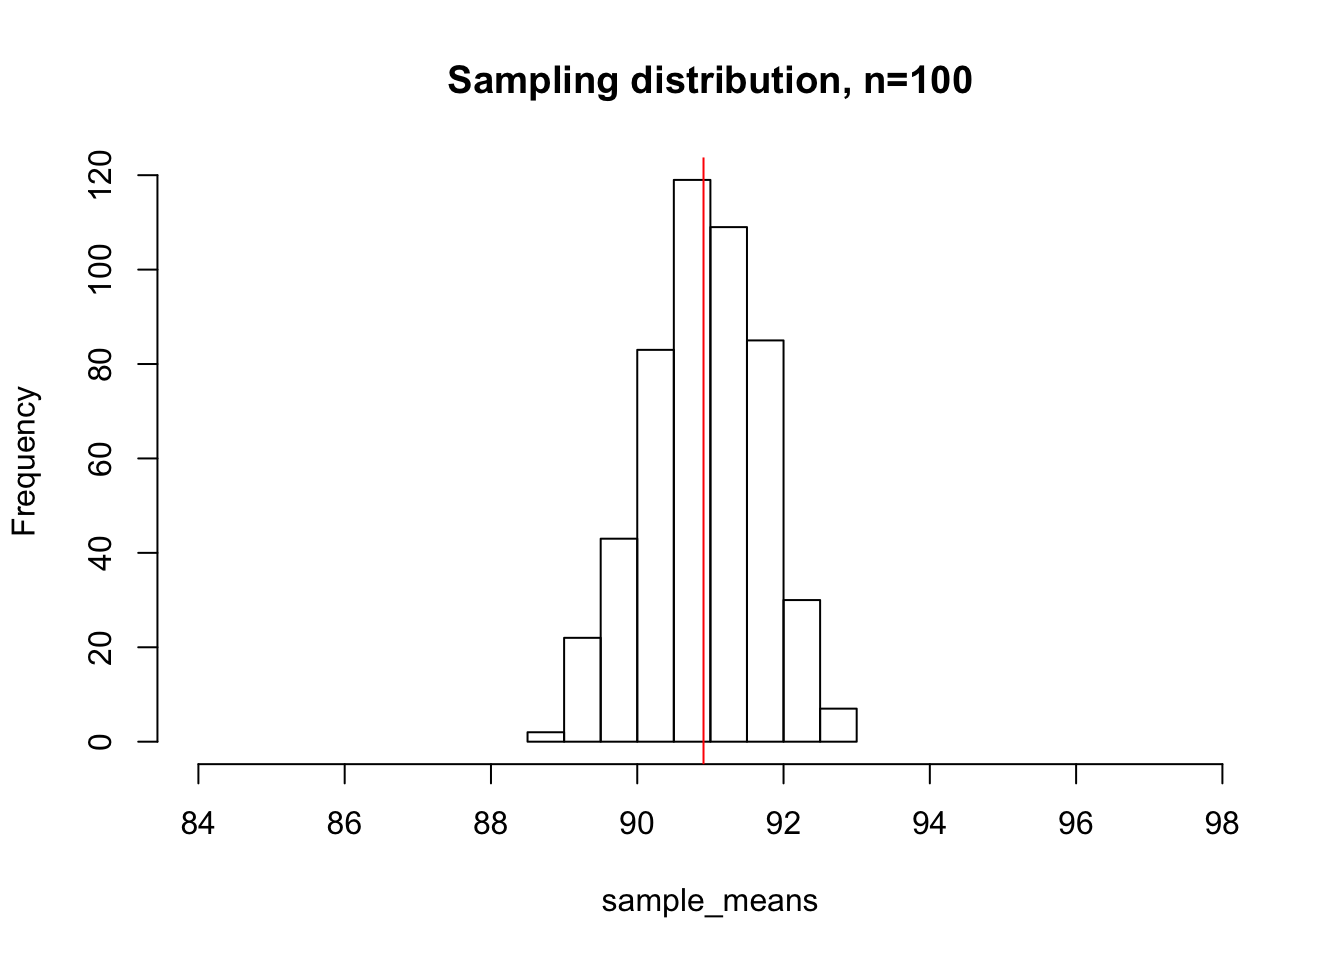
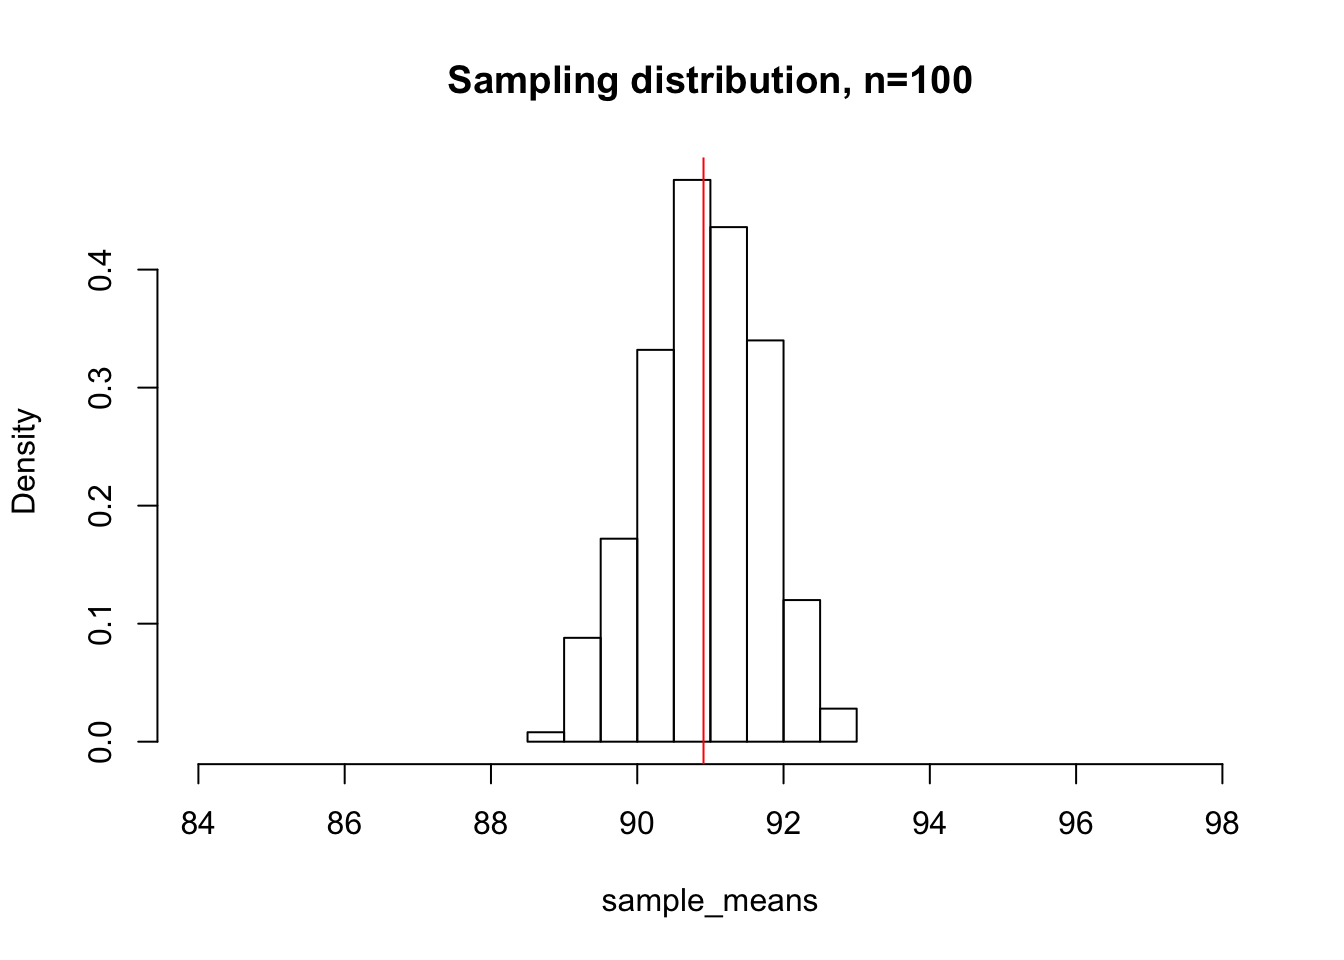
Add linear regression file

diff --git a/docs/license.html b/docs/license.html
@@ -246,7 +246,7 @@ div.section {
 
 <p>
 <button type="button" class="btn btn-default btn-workflowr btn-workflowr-report" data-toggle="collapse" data-target="#workflowr-report">
-<span class="glyphicon glyphicon-list" aria-hidden="true"></span> workflowr <span class="glyphicon glyphicon-ok text-success" aria-hidden="true"></span>
+<span class="glyphicon glyphicon-list" aria-hidden="true"></span> workflowr <span class="glyphicon glyphicon-exclamation-sign text-danger" aria-hidden="true"></span>
 </button>
 </p>
 <div id="workflowr-report" class="collapse">
@@ -255,7 +255,7 @@ div.section {
 <a data-toggle="tab" href="#summary">Summary</a>
 </li>
 <li>
-<a data-toggle="tab" href="#checks"> Checks <span class="glyphicon glyphicon-ok text-success" aria-hidden="true"></span> </a>
+<a data-toggle="tab" href="#checks"> Checks <span class="glyphicon glyphicon-exclamation-sign text-danger" aria-hidden="true"></span> </a>
 </li>
 <li>
 <a data-toggle="tab" href="#versions">Past versions</a>
@@ -267,7 +267,7 @@ div.section {
 <strong>Last updated:</strong> 2019-04-26
 </p>
 <p>
-<strong>Checks:</strong> <span class="glyphicon glyphicon-ok text-success" aria-hidden="true"></span> 2 <span class="glyphicon glyphicon-exclamation-sign text-danger" aria-hidden="true"></span> 0
+<strong>Checks:</strong> <span class="glyphicon glyphicon-ok text-success" aria-hidden="true"></span> 1 <span class="glyphicon glyphicon-exclamation-sign text-danger" aria-hidden="true"></span> 1
 </p>
 <p>
 <strong>Knit directory:</strong> <code>MSTPsummerstatistics/</code> <span class="glyphicon glyphicon-question-sign" aria-hidden="true" title="This is the local directory in which the code in this file was executed."> </span>
@@ -283,22 +283,22 @@ This reproducible <a href="http://rmarkdown.rstudio.com">R Markdown</a> analysis
 <div class="panel panel-default">
 <div class="panel-heading">
 <p class="panel-title">
-<a data-toggle="collapse" data-parent="#workflowr-checks" href="#strongRMarkdownfilestronguptodate"> <span class="glyphicon glyphicon-ok text-success" aria-hidden="true"></span> <strong>R Markdown file:</strong> up-to-date </a>
+<a data-toggle="collapse" data-parent="#workflowr-checks" href="#strongRMarkdownfilestronguncommittedchanges"> <span class="glyphicon glyphicon-exclamation-sign text-danger" aria-hidden="true"></span> <strong>R Markdown file:</strong> uncommitted changes </a>
 </p>
 </div>
-<div id="strongRMarkdownfilestronguptodate" class="panel-collapse collapse">
+<div id="strongRMarkdownfilestronguncommittedchanges" class="panel-collapse collapse">
 <div class="panel-body">
-<p>Great! Since the R Markdown file has been committed to the Git repository, you know the exact version of the code that produced these results.</p>
+<p>The R Markdown file has unstaged changes. To know which version of the R Markdown file created these results, you’ll want to first commit it to the Git repo. If you’re still working on the analysis, you can ignore this warning. When you’re finished, you can run <code>wflow_publish</code> to commit the R Markdown file and build the HTML.</p>
 </div>
 </div>
 </div>
 <div class="panel panel-default">
 <div class="panel-heading">
 <p class="panel-title">
-<a data-toggle="collapse" data-parent="#workflowr-checks" href="#strongRepositoryversionstrongahrefhttpsgithubcomanthonyhungMSTPsummerstatisticstree6b98d6c19b53e6c549857d19bc13f75fe78e1289targetblank6b98d6ca"> <span class="glyphicon glyphicon-ok text-success" aria-hidden="true"></span> <strong>Repository version:</strong> <a href="https://github.com/anthonyhung/MSTPsummerstatistics/tree/6b98d6c19b53e6c549857d19bc13f75fe78e1289" target="_blank">6b98d6c</a> </a>
+<a data-toggle="collapse" data-parent="#workflowr-checks" href="#strongRepositoryversionstrongahrefhttpsgithubcomanthonyhungMSTPsummerstatisticstree2780f0a9ff7b8aab9b94ab68b20492f4d6b0cc93targetblank2780f0aa"> <span class="glyphicon glyphicon-ok text-success" aria-hidden="true"></span> <strong>Repository version:</strong> <a href="https://github.com/anthonyhung/MSTPsummerstatistics/tree/2780f0a9ff7b8aab9b94ab68b20492f4d6b0cc93" target="_blank">2780f0a</a> </a>
 </p>
 </div>
[2 lines of base64/hex data omitted]
 <div class="panel-body">
 <p>
 Great! You are using Git for version control. Tracking code development and connecting the code version to the results is critical for reproducibility. The version displayed above was the version of the Git repository at the time these results were generated. <br><br> Note that you need to be careful to ensure that all relevant files for the analysis have been committed to Git prior to generating the results (you can use <code>wflow_publish</code> or <code>wflow_git_commit</code>). workflowr only checks the R Markdown file, but you know if there are other scripts or data files that it depends on. Below is the status of the Git repository when the results were generated:
@@ -309,6 +309,7 @@ Ignored files:
 
 Unstaged changes:
     Modified:   analysis/CLT.Rmd
+    Modified:   analysis/license.Rmd
 
 </code></pre>
 <p>
@@ -347,6 +348,23 @@ Message
 </tr>
 </thead>
 <tbody>
+<tr>
+<td>
+html
+</td>
+<td>
+<a href="https://rawcdn.githack.com/anthonyhung/MSTPsummerstatistics/413d06593754be3f2cb5c65bf0f9f8b290e45c40/docs/license.html" target="_blank">413d065</a>
+</td>
+<td>
+Anthony Hung
+</td>
+<td>
+2019-04-26
+</td>
+<td>
+Build site.
+</td>
+</tr>
 <tr>
 <td>
 html
@@ -474,7 +492,7 @@ Start workflowr project.
 </div>
 </div>
 <p>MIT License</p>
-<p>Copyright (c) 2018 Anthony Hung</p>
+<p>Copyright (c) 2019 Anthony Hung</p>
 <p>Permission is hereby granted, free of charge, to any person obtaining a copy of this software and associated documentation files (the “Software”), to deal in the Software without restriction, including without limitation the rights to use, copy, modify, merge, publish, distribute, sublicense, and/or sell copies of the Software, and to permit persons to whom the Software is furnished to do so, subject to the following conditions:</p>
 <p>The above copyright notice and this permission notice shall be included in all copies or substantial portions of the Software.</p>
 <p>THE SOFTWARE IS PROVIDED “AS IS”, WITHOUT WARRANTY OF ANY KIND, EXPRESS OR IMPLIED, INCLUDING BUT NOT LIMITED TO THE WARRANTIES OF MERCHANTABILITY, FITNESS FOR A PARTICULAR PURPOSE AND NONINFRINGEMENT. IN NO EVENT SHALL THE AUTHORS OR COPYRIGHT HOLDERS BE LIABLE FOR ANY CLAIM, DAMAGES OR OTHER LIABILITY, WHETHER IN AN ACTION OF CONTRACT, TORT OR OTHERWISE, ARISING FROM, OUT OF OR IN CONNECTION WITH THE SOFTWARE OR THE USE OR OTHER DEALINGS IN THE SOFTWARE.</p>

diff --git a/docs/CLT.html b/docs/CLT.html
@@ -357,10 +357,10 @@ This reproducible <a href="http://rmarkdown.rstudio.com">R Markdown</a> analysis
 <div class="panel panel-default">
 <div class="panel-heading">
 <p class="panel-title">
-<a data-toggle="collapse" data-parent="#workflowr-checks" href="#strongRepositoryversionstrongahrefhttpsgithubcomanthonyhungMSTPsummerstatisticstreea65f214c8cfc1269f8e1b51b3534ac969f1a3f2ftargetblanka65f214a"> <span class="glyphicon glyphicon-ok text-success" aria-hidden="true"></span> <strong>Repository version:</strong> <a href="https://github.com/anthonyhung/MSTPsummerstatistics/tree/a65f214c8cfc1269f8e1b51b3534ac969f1a3f2f" target="_blank">a65f214</a> </a>
+<a data-toggle="collapse" data-parent="#workflowr-checks" href="#strongRepositoryversionstrongahrefhttpsgithubcomanthonyhungMSTPsummerstatisticstree2780f0a9ff7b8aab9b94ab68b20492f4d6b0cc93targetblank2780f0aa"> <span class="glyphicon glyphicon-ok text-success" aria-hidden="true"></span> <strong>Repository version:</strong> <a href="https://github.com/anthonyhung/MSTPsummerstatistics/tree/2780f0a9ff7b8aab9b94ab68b20492f4d6b0cc93" target="_blank">2780f0a</a> </a>
 </p>
 </div>
[2 lines of base64/hex data omitted]
 <div class="panel-body">
 <p>
 Great! You are using Git for version control. Tracking code development and connecting the code version to the results is critical for reproducibility. The version displayed above was the version of the Git repository at the time these results were generated. <br><br> Note that you need to be careful to ensure that all relevant files for the analysis have been committed to Git prior to generating the results (you can use <code>wflow_publish</code> or <code>wflow_git_commit</code>). workflowr only checks the R Markdown file, but you know if there are other scripts or data files that it depends on. Below is the status of the Git repository when the results were generated:
@@ -409,6 +409,40 @@ Message
 </tr>
 </thead>
 <tbody>
+<tr>
+<td>
+Rmd
+</td>
+<td>
+<a href="https://github.com/anthonyhung/MSTPsummerstatistics/blob/2780f0a9ff7b8aab9b94ab68b20492f4d6b0cc93/analysis/CLT.Rmd" target="_blank">2780f0a</a>
+</td>
+<td>
+Anthony Hung
+</td>
+<td>
+2019-04-26
+</td>
+<td>
+republish
+</td>
+</tr>
+<tr>
+<td>
+html
+</td>
+<td>
+<a href="https://rawcdn.githack.com/anthonyhung/MSTPsummerstatistics/2780f0a9ff7b8aab9b94ab68b20492f4d6b0cc93/docs/CLT.html" target="_blank">2780f0a</a>
+</td>
+<td>
+Anthony Hung
+</td>
+<td>
+2019-04-26
+</td>
+<td>
+republish
+</td>
+</tr>
 <tr>
 <td>
 Rmd
@@ -557,7 +591,7 @@ Anthony Hung
 for(i in 1:500){
   sample_means &lt;- c(sample_means, mean(sample(deer_heights, 25, replace=F)))
 }
-hist(sample_means,  xlim = c(84, 98), main=&quot;Sampling distribution, n=25&quot;)
+hist(sample_means,  freq = F, xlim = c(84, 98), main=&quot;Sampling distribution, n=25&quot;)
 abline(v=mean(sample_means), col=&quot;red&quot;)</code></pre>
 <p><img src="figure/CLT.Rmd/sample%20deer-1.png" width="672" style="display: block; margin: auto;" /></p>
 <p>
@@ -605,7 +639,7 @@ Anthony Hung
 for(i in 1:500){
   sample_means &lt;- c(sample_means, mean(sample(deer_heights, 100, replace=F)))
 }
-hist(sample_means,  xlim = c(84, 98), main=&quot;Sampling distribution, n=100&quot;)
+hist(sample_means,  xlim = c(84, 98), main=&quot;Sampling distribution, n=100&quot;, freq = F)
 abline(v=mean(sample_means), col=&quot;red&quot;)</code></pre>
 <p><img src="figure/CLT.Rmd/sample%20deer%20100-1.png" width="672" style="display: block; margin: auto;" /></p>
 <p>
@@ -653,6 +687,11 @@ Anthony Hung
 <p>Mathematically, the relationship between the sample size and the standard deviation of the sampling distribution as n tends towards large numbers is given by:</p>
 <p><span class="math display">\[\sigma_{sampling} = \frac{\sigma}{\sqrt{n}}\]</span></p>
 <p>The relationship between the sample distribution standard deviation and the sample size demonstrates why statistical inferences improve with larger sample sizes. As your n increases, you have more certainty in your estimates, since your sample statistics are more likely to be close to the true population parameters.</p>
+<p>As a gut-check and to test this relationship, let us revisit our most recent plot of the sampling distribution for n=100. Here, I have overlaid a normal distribution with mean <span class="math inline">\(\mu = \mu_{population}\)</span> and standard deviation <span class="math inline">\(\sigma = \frac{\sigma_{population}}{\sqrt{100}}\)</span> in blue.</p>
+<pre class="r"><code>hist(sample_means,  xlim = c(84, 98), main=&quot;Sampling distribution, n=100&quot;, freq = F)
+curve(dnorm(x, mean = mean(sample_means), sd = sd(deer_heights)/sqrt(100)), add=T, col=&quot;blue&quot;)
+abline(v=mean(sample_means), col=&quot;red&quot;)</code></pre>
+<p><img src="figure/CLT.Rmd/unnamed-chunk-1-1.png" width="672" style="display: block; margin: auto;" /></p>
 </div>
 </div>
 </div>
@@ -668,6 +707,7 @@ Anthony Hung
 <li><p>The CLT allows us to apply many of the statistical tests that are commonly used to a wide variety of situations. For example, in nature there is no such thing as a perfectly normally distributed population. However, the CLT tells us that if we have a large enough sample size, we can always expect to see a normally distributed sampling distribution, which means we can apply statistical tests that assume normality on sampling distributions.</p></li>
 <li><p>The statement of the CLT allows us to use information we calculate based on a random representative sample to infer parameters of the population. This is of great usefulness to us a scientists. Imagine if the only way to obtain accurate measurements of a population of cells, mice, or patients was to measure every single last one!</p></li>
 <li><p>The precision of the estimates we obtain from our samples depends very much on the sample size, or number of individuals contained within each sample.</p></li>
+<li><p>The shape of the population distribution determines how large of a sample size is required for the CLT to hold. If a population is very far from normally distributed, you many need much large sample sizes for the CLT to hold.</p></li>
 <li><p>The fact that even with large sample size, our estimates of the population mean have some amount of variance around the true population mean gives us an idea of the importance of replicating experiments. Replication allows us to get some sense of how large the standard deviation of our sampling distribution is, and averaging across replicates increases the accuracy of our estimates.</p></li>
 </ul>
 <br>

diff --git a/docs/index.html b/docs/index.html
@@ -246,7 +246,7 @@ div.section {
 
 <p>
 <button type="button" class="btn btn-default btn-workflowr btn-workflowr-report" data-toggle="collapse" data-target="#workflowr-report">
-<span class="glyphicon glyphicon-list" aria-hidden="true"></span> workflowr <span class="glyphicon glyphicon-ok text-success" aria-hidden="true"></span>
+<span class="glyphicon glyphicon-list" aria-hidden="true"></span> workflowr <span class="glyphicon glyphicon-exclamation-sign text-danger" aria-hidden="true"></span>
 </button>
 </p>
 <div id="workflowr-report" class="collapse">
@@ -255,7 +255,7 @@ div.section {
 <a data-toggle="tab" href="#summary">Summary</a>
 </li>
 <li>
-<a data-toggle="tab" href="#checks"> Checks <span class="glyphicon glyphicon-ok text-success" aria-hidden="true"></span> </a>
+<a data-toggle="tab" href="#checks"> Checks <span class="glyphicon glyphicon-exclamation-sign text-danger" aria-hidden="true"></span> </a>
 </li>
 <li>
 <a data-toggle="tab" href="#versions">Past versions</a>
@@ -267,7 +267,7 @@ div.section {
 <strong>Last updated:</strong> 2019-04-26
 </p>
 <p>
-<strong>Checks:</strong> <span class="glyphicon glyphicon-ok text-success" aria-hidden="true"></span> 2 <span class="glyphicon glyphicon-exclamation-sign text-danger" aria-hidden="true"></span> 0
+<strong>Checks:</strong> <span class="glyphicon glyphicon-ok text-success" aria-hidden="true"></span> 1 <span class="glyphicon glyphicon-exclamation-sign text-danger" aria-hidden="true"></span> 1
 </p>
 <p>
 <strong>Knit directory:</strong> <code>MSTPsummerstatistics/</code> <span class="glyphicon glyphicon-question-sign" aria-hidden="true" title="This is the local directory in which the code in this file was executed."> </span>
@@ -283,22 +283,22 @@ This reproducible <a href="http://rmarkdown.rstudio.com">R Markdown</a> analysis
 <div class="panel panel-default">
 <div class="panel-heading">
 <p class="panel-title">
-<a data-toggle="collapse" data-parent="#workflowr-checks" href="#strongRMarkdownfilestronguptodate"> <span class="glyphicon glyphicon-ok text-success" aria-hidden="true"></span> <strong>R Markdown file:</strong> up-to-date </a>
+<a data-toggle="collapse" data-parent="#workflowr-checks" href="#strongRMarkdownfilestronguncommittedchanges"> <span class="glyphicon glyphicon-exclamation-sign text-danger" aria-hidden="true"></span> <strong>R Markdown file:</strong> uncommitted changes </a>
 </p>
 </div>
-<div id="strongRMarkdownfilestronguptodate" class="panel-collapse collapse">
+<div id="strongRMarkdownfilestronguncommittedchanges" class="panel-collapse collapse">
 <div class="panel-body">
-<p>Great! Since the R Markdown file has been committed to the Git repository, you know the exact version of the code that produced these results.</p>
+<p>The R Markdown file has unstaged changes. To know which version of the R Markdown file created these results, you’ll want to first commit it to the Git repo. If you’re still working on the analysis, you can ignore this warning. When you’re finished, you can run <code>wflow_publish</code> to commit the R Markdown file and build the HTML.</p>
 </div>
 </div>
 </div>
 <div class="panel panel-default">
 <div class="panel-heading">
 <p class="panel-title">
-<a data-toggle="collapse" data-parent="#workflowr-checks" href="#strongRepositoryversionstrongahrefhttpsgithubcomanthonyhungMSTPsummerstatisticstree6b98d6c19b53e6c549857d19bc13f75fe78e1289targetblank6b98d6ca"> <span class="glyphicon glyphicon-ok text-success" aria-hidden="true"></span> <strong>Repository version:</strong> <a href="https://github.com/anthonyhung/MSTPsummerstatistics/tree/6b98d6c19b53e6c549857d19bc13f75fe78e1289" target="_blank">6b98d6c</a> </a>
+<a data-toggle="collapse" data-parent="#workflowr-checks" href="#strongRepositoryversionstrongahrefhttpsgithubcomanthonyhungMSTPsummerstatisticstree2780f0a9ff7b8aab9b94ab68b20492f4d6b0cc93targetblank2780f0aa"> <span class="glyphicon glyphicon-ok text-success" aria-hidden="true"></span> <strong>Repository version:</strong> <a href="https://github.com/anthonyhung/MSTPsummerstatistics/tree/2780f0a9ff7b8aab9b94ab68b20492f4d6b0cc93" target="_blank">2780f0a</a> </a>
 </p>
 </div>
[2 lines of base64/hex data omitted]
 <div class="panel-body">
 <p>
 Great! You are using Git for version control. Tracking code development and connecting the code version to the results is critical for reproducibility. The version displayed above was the version of the Git repository at the time these results were generated. <br><br> Note that you need to be careful to ensure that all relevant files for the analysis have been committed to Git prior to generating the results (you can use <code>wflow_publish</code> or <code>wflow_git_commit</code>). workflowr only checks the R Markdown file, but you know if there are other scripts or data files that it depends on. Below is the status of the Git repository when the results were generated:
@@ -307,8 +307,13 @@ Great! You are using Git for version control. Tracking code development and conn
 Ignored files:
     Ignored:    .Rproj.user/
 
+Untracked files:
+    Untracked:  analysis/linearRegression.Rmd
+
 Unstaged changes:
     Modified:   analysis/CLT.Rmd
+    Modified:   analysis/index.Rmd
+    Modified:   analysis/license.Rmd
 
 </code></pre>
 <p>
@@ -347,6 +352,23 @@ Message
 </tr>
 </thead>
 <tbody>
+<tr>
+<td>
+html
+</td>
+<td>
+<a href="https://rawcdn.githack.com/anthonyhung/MSTPsummerstatistics/413d06593754be3f2cb5c65bf0f9f8b290e45c40/docs/index.html" target="_blank">413d065</a>
+</td>
+<td>
+Anthony Hung
+</td>
+<td>
+2019-04-26
+</td>
+<td>
+Build site.
+</td>
+</tr>
 <tr>
 <td>
 html
@@ -591,7 +613,8 @@ Start workflowr project.
 <div id="week-2" class="section level3">
 <h3>Week 2:</h3>
 <ul>
-<li><a href="multipleTesting.html">Correcting for Mutliple Tests</a></li>
+<li><p><a href="linearRegression.html">Linear Regression</a></p></li>
+<li><p><a href="multipleTesting.html">Correcting for Mutliple Tests</a></p></li>
 </ul>
 </div>
 <div id="week-3" class="section level3">
